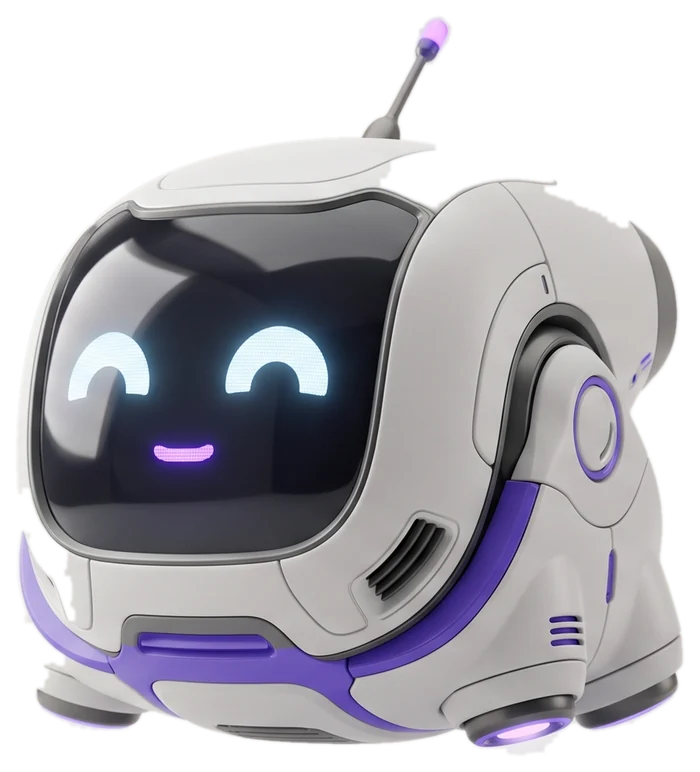
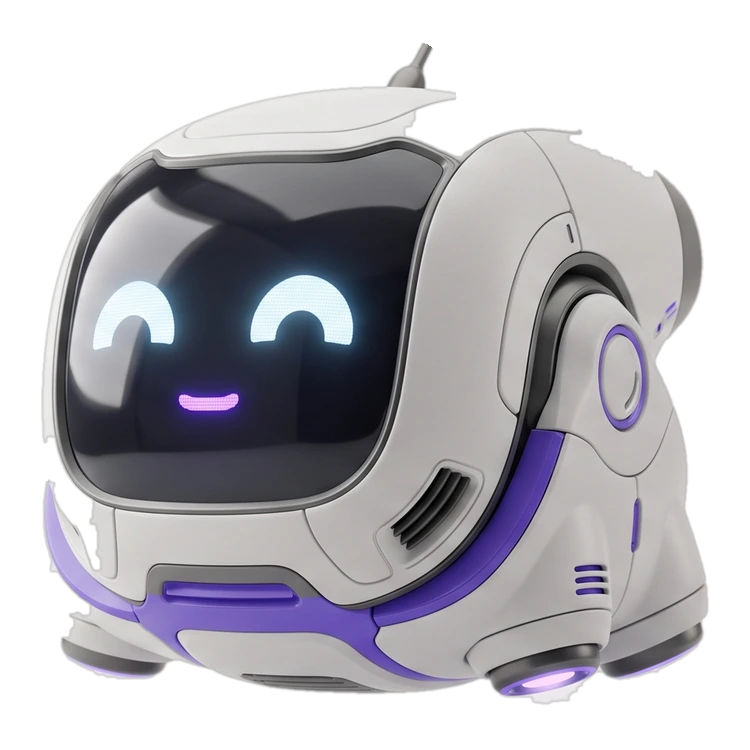
Маскот: убраны мусорные пиксели и смещение робота
В рендерах think/win вокруг робота налипло конфетти, которое не отделяется
от корпуса: на тёмном фоне читалось как мусор, а из-за широкого облака
справа робот вставал не по центру («едет»).

Решение: картинка везде одна — чистый робот. Эмоции рисуем сами:
- think → всплывающие вопросики (SVG, анимация)
- win → разлетающиеся конфетти (SVG, анимация)

Правка в самой функции NKM, поэтому чинится разом во всех 8 местах
и в хабе. Файлы маскота перечищены и отцентрированы на квадратном холсте.

diff --git a/games/prompt.html b/games/prompt.html
@@ -968,16 +968,72 @@ function IntroModal({
    ПромптЛаб — учимся говорить с ИИ. Nooka.
    ============================================================ */
 
-const NKM = (n, sz) => /*#__PURE__*/React.createElement("img", {
-  src: '../mascot/' + n + '.webp',
-  alt: "Nooka",
-  style: {
-    width: sz,
-    height: sz,
-    borderRadius: sz * 0.28,
-    boxShadow: '0 0 24px rgba(196,77,255,.35)'
-  }
-});
+/* Маскот Нейро. Картинка всегда одна — чистый робот (hello).
+   Эмоция рисуется поверх: у think/win в исходных рендерах вокруг робота
+   налипло конфетти, которое нельзя отделить от корпуса — на тёмном фоне
+   оно читалось как мусорные пиксели, а из-за него же робот вставал не по центру.
+   Свои эффекты чище и вдобавок анимированы. */
+const NKM = (n, sz) => {
+  const conf = ['#FFD84D', '#FF6FC4', '#7BF0BC', '#B57BFF', '#FF9F3C', '#7FD4FF'];
+  return React.createElement('span', {
+    style: {
+      position: 'relative', display: 'inline-block',
+      width: sz, height: sz, lineHeight: 0,
+    }
+  },
+    React.createElement('img', {
+      src: '../mascot/hello.webp',
+      alt: 'Нейро',
+      width: sz, height: sz,
+      style: {
+        width: sz, height: sz, display: 'block',
+        filter: 'drop-shadow(0 8px 16px rgba(0,0,0,.35)) drop-shadow(0 0 20px rgba(196,77,255,.3))',
+      }
+    }),
+    n === 'think' && React.createElement('svg', {
+      viewBox: '0 0 100 100',
+      style: { position: 'absolute', inset: 0, width: '100%', height: '100%', pointerEvents: 'none', overflow: 'visible' }
+    },
+      React.createElement('style', null,
+        '@keyframes nkmQ{0%{opacity:0;transform:translateY(4px) scale(.7)}' +
+        '30%{opacity:1;transform:translateY(0) scale(1)}' +
+        '70%{opacity:1;transform:translateY(-4px) scale(1)}' +
+        '100%{opacity:0;transform:translateY(-9px) scale(.85)}}'),
+      [[20, 20, 15, 0], [37, 9, 20, .5], [55, 17, 12, 1]].map((q, i) =>
+        React.createElement('text', {
+          key: i, x: q[0], y: q[1], fontSize: q[2],
+          fontFamily: 'var(--nk-display),system-ui,sans-serif', fontWeight: 900,
+          fill: '#C48BFF', stroke: '#2A1150', strokeWidth: 1.6, paintOrder: 'stroke',
+          style: { animation: `nkmQ 2.4s ease-in-out ${q[3]}s infinite`, transformOrigin: `${q[0]}px ${q[1]}px` }
+        }, '?')
+      )
+    ),
+    n === 'win' && React.createElement('svg', {
+      viewBox: '0 0 100 100',
+      style: { position: 'absolute', inset: 0, width: '100%', height: '100%', pointerEvents: 'none', overflow: 'visible' }
+    },
+      React.createElement('style', null,
+        '@keyframes nkmC{0%{opacity:0;transform:translate(0,0) rotate(0)}' +
+        '12%{opacity:1}' +
+        '100%{opacity:0;transform:translate(var(--dx),var(--dy)) rotate(var(--rot))}}'),
+      [[50, 42, -38, -34, '220deg', 0], [50, 42, 36, -30, '-190deg', .18],
+       [50, 42, -30, 12, '150deg', .36], [50, 42, 30, 16, '-160deg', .54],
+       [50, 42, -12, -44, '200deg', .72], [50, 42, 14, -46, '-210deg', .9],
+       [50, 42, -44, -8, '170deg', 1.08], [50, 42, 44, -4, '-140deg', 1.26]].map((c, i) =>
+        React.createElement('rect', {
+          key: i, x: c[0] - 2.6, y: c[1] - 4.5, width: 5.6, height: 9, rx: 1.5,
+          fill: conf[i % conf.length],
+          style: {
+            '--dx': c[2] + 'px', '--dy': c[3] + 'px', '--rot': c[4],
+            animation: `nkmC 2.5s ease-out ${c[5]}s infinite`,
+            transformOrigin: '50px 42px',
+          }
+        })
+      )
+    )
+  );
+};
+
 /* ---------- Уровень 1: Джинн-буквалист (v2 — живая сцена) ---------- */
 const P1_SLOTS = [{
   id: 'adj',
@@ -3712,13 +3768,9 @@ function PLHome({
       height: 272,
       top: -18
     }
-  }), /*#__PURE__*/React.createElement("img", {
-    className: "plh__mascot",
-    src: '../mascot/' + face + '.webp',
-    alt: "Нейро",
-    width: "128",
-    height: "128"
   }), /*#__PURE__*/React.createElement("div", {
+    className: "plh__mascot"
+  }, NKM(face, 128)), /*#__PURE__*/React.createElement("div", {
     className: "plh__name"
   }, "Нейро"), /*#__PURE__*/React.createElement("div", {
     className: "plh__rank"
